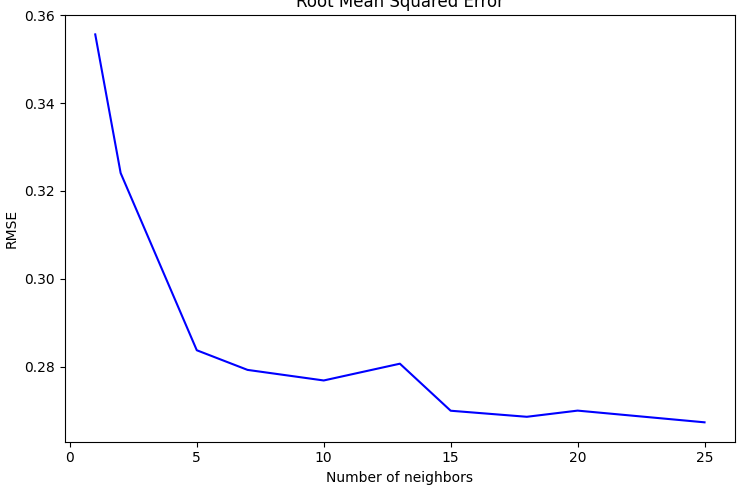
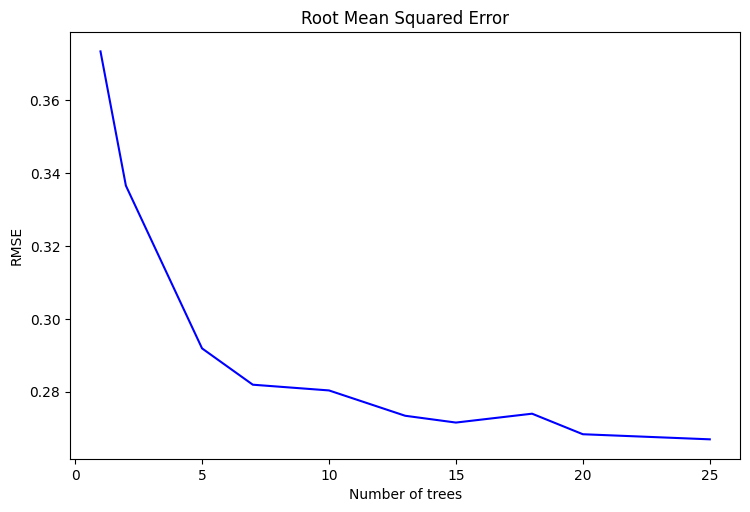
Last update H3

diff --git a/project-3/MLR.py b/project-3/MLR.py
@@ -9,6 +9,11 @@ import numpy as np
 import seaborn as sns  # for scatter plot
 from mlxtend.feature_selection import SequentialFeatureSelector as sfs
 from sklearn.model_selection import train_test_split
+import matplotlib as mlp
+
+mlp.rcParams.update({'figure.max_open_warning': 0})
+plt.rcParams["figure.figsize"] = (15, 10)
+
 
 # FORWARD SUBSET SELECTION path to plots
 path_forward_selection_plots = "./images/forward_subset_selection/"
@@ -107,13 +112,13 @@ def ridge_regression(x, y):
 
     # plot errors
     plt.title("R^2, Root Mean Square Error and Mean Absolute Error")
-    plt.xlabel('Different alphas')
+    plt.xlabel('Different lambdas')
     plt.ylabel('Error')
     plt.plot(alphas, r2, color='red')
     plt.plot(alphas, rmse, color='black')
     plt.plot(alphas, mae, color='green')
     plt.legend(("R^2", "RMSE", "MAE"))
-    plt.savefig(path_ridge_regression_plots + "error_metrics/ridge_errors.png")
+    plt.savefig(path_ridge_regression_plots + "error_metrics/ridge_errors.png", bbox_inches='tight')
     plt.clf()
     # plt.show()
 
@@ -121,11 +126,11 @@ def ridge_regression(x, y):
     ax = plt.gca()
     ax.plot(alphas, coef)
     plt.axis('tight')
-    plt.xlabel('alpha')
+    plt.xlabel('lambda')
     plt.ylabel('coefficients')
-    plt.title("Plot of coefficients for different alphas")
+    plt.title("Plot of coefficients for different lambdas")
     ax.legend(("Sensor O3 coef", "Temp coef", "RelHum coef", "Sensor_NO2", "Sensor_NO", "Sensor_SO2"))
-    plt.savefig(path_ridge_regression_plots + "models/ridge_coefs.png")
+    plt.savefig(path_ridge_regression_plots + "models/ridge_coefs.png", bbox_inches='tight')
     plt.clf()
     # plt.show()
 
@@ -150,14 +155,14 @@ def ridge_regression(x, y):
     pred['date'] = new_PR_data_inner['date']
 
     ax1 = pred.plot(x='date', y='RefSt', color='red')
-    pred.plot(x='date', y='Ridge_Pred', ax=ax1, title='Ridge regression for alpha 1', color='blue')
+    pred.plot(x='date', y='Ridge_Pred', ax=ax1, title='Ridge regression for lambda 1', color='blue')
     label = "Ridge_1.png"
     plt.savefig(path_ridge_regression_plots + "models/" + label)
     plt.clf()
 
     sns_r = sns.lmplot(x='RefSt', y='Ridge_Pred', data=pred, fit_reg=True, height=5, aspect=1.5,
                        line_kws={'color': 'orange'})
-    sns_r.fig.suptitle('Ridge regression for alpha 1')
+    sns_r.fig.suptitle('Ridge regression for lambda 1')
     sns_r.set(ylim=(-2, 3))
     sns_r.set(xlim=(-2, 3))
 
@@ -198,13 +203,13 @@ def lasso_regression(x, y):
     # PLOTS
     # Errors
     plt.title("R^2, Root Mean Square Error and Mean Absolute Error")
-    plt.xlabel('Different alphas')
+    plt.xlabel('Different lambdas')
     plt.ylabel('Error')
     plt.plot(alphas, r2, color='red')
     plt.plot(alphas, rmse, color='black')
     plt.plot(alphas, mae, color='green')
     plt.legend(("R^2", "RMSE", "MAE"))
-    plt.savefig(path_lasso_regression_plots + "error_metrics/lasso_errors.png")
+    plt.savefig(path_lasso_regression_plots + "error_metrics/lasso_errors.png", bbox_inches='tight')
     plt.clf()
     # plt.show()
 
@@ -212,11 +217,11 @@ def lasso_regression(x, y):
     ax = plt.gca()
     ax.plot(alphas, coef)
     plt.axis('tight')
-    plt.xlabel('alpha')
+    plt.xlabel('lambda')
     plt.ylabel('coefficients')
-    plt.title("Plot of coefficients for different alphas")
+    plt.title("Plot of coefficients for different lambdas")
     ax.legend(("Sensor O3 coef", "Temp coef", "RelHum coef", "Sensor_NO2", "Sensor_NO", "Sensor_SO2"))
-    plt.savefig(path_lasso_regression_plots + "models/lasso_coefs.png")
+    plt.savefig(path_lasso_regression_plots + "models/lasso_coefs.png", bbox_inches='tight')
     plt.clf()
     # plt.show()
 
@@ -229,7 +234,7 @@ def lasso_regression(x, y):
     rm.fit(x_train, y_train)
     rmpred = rm.predict(x_test)
 
-    print("LASSO PREDICTION")
+    print("Lasso PREDICTION")
     print("R^2: ", str(metrics.r2_score(y_test, rmpred)))
     print("RMSE: ", str(metrics.mean_squared_error(y_test, rmpred, squared=False)))
     print("MAE : ", str(metrics.mean_absolute_error(y_test, rmpred)))
@@ -240,13 +245,13 @@ def lasso_regression(x, y):
     pred['date'] = new_PR_data_inner['date']
 
     ax1 = pred.plot(x='date', y='RefSt', color='red')
-    pred.plot(x='date', y='Pred', ax=ax1, title='LASSO for alpha ' + str(best_a), color='blue')
+    pred.plot(x='date', y='Pred', ax=ax1, title='Lasso for lambda ' + str(best_a), color='blue')
     plt.savefig(path_lasso_regression_plots + "models/lasso_pred.png")
     plt.clf()
 
     sns_r = sns.lmplot(x='RefSt', y='Pred', data=pred, fit_reg=True, height=5, aspect=1.5,
                        line_kws={'color': 'orange'})
-    sns_r.fig.suptitle('LASSO for alpha ' + str(best_a))
+    sns_r.fig.suptitle('Lasso for lambda ' + str(best_a))
     sns_r.set(ylim=(-2, 3))
     sns_r.set(xlim=(-2, 3))
     # plt.show()

diff --git a/project-3/KR_RBF.py b/project-3/KR_RBF.py
@@ -108,24 +108,24 @@ def gaussian_kernel(x, y):
 
     # plot errors
     plt.title("R-squared")
-    plt.xlabel('Lambda')
+    plt.xlabel('Lambdas')
     plt.ylabel('R^2')
     plt.plot(alphas, r2, color='red')
-    plt.savefig(path_kernel_ridge_regression_plots + "error_metrics/kr_rbf_r2.png")
+    plt.savefig(path_kernel_ridge_regression_plots + "error_metrics/kr_rbf_r2.png", bbox_inches='tight')
     plt.clf()
 
     plt.title("Root Mean Squared Error")
-    plt.xlabel('Lambda')
+    plt.xlabel('Lambdas')
     plt.ylabel('RMSE')
     plt.plot(alphas, rmse, color='blue')
-    plt.savefig(path_kernel_ridge_regression_plots + "error_metrics/kr_rbf_rmse.png")
+    plt.savefig(path_kernel_ridge_regression_plots + "error_metrics/kr_rbf_rmse.png", bbox_inches='tight')
     plt.clf()
 
-    plt.title("Mean Absoulte Error")
-    plt.xlabel('Lambda')
+    plt.title("Mean Absolute Error")
+    plt.xlabel('Lambdas')
     plt.ylabel('MAE')
     plt.plot(alphas, mae, color='black')
-    plt.savefig(path_kernel_ridge_regression_plots + "error_metrics/kr_rbf_mae.png")
+    plt.savefig(path_kernel_ridge_regression_plots + "error_metrics/kr_rbf_mae.png", bbox_inches='tight')
     plt.clf()
 
     # best alpha is the one with higher R^2

diff --git a/project-3/RF.py b/project-3/RF.py
@@ -46,24 +46,24 @@ def random_forest(x, y):
 
     # plot errors
     plt.title("R-squared")
-    plt.xlabel('Number of neighbors')
+    plt.xlabel('Number of trees')
     plt.ylabel('R^2')
     plt.plot(n_trees, r2, color='red')
-    plt.savefig(path_random_forest_plots + "error_metrics/rf_r2.png")
+    plt.savefig(path_random_forest_plots + "error_metrics/rf_r2.png", bbox_inches='tight')
     plt.clf()
 
     plt.title("Root Mean Squared Error")
-    plt.xlabel('Number of neighbors')
+    plt.xlabel('Number of trees')
     plt.ylabel('RMSE')
     plt.plot(n_trees, rmse, color='blue')
-    plt.savefig(path_random_forest_plots + "error_metrics/rf_rmse.png")
+    plt.savefig(path_random_forest_plots + "error_metrics/rf_rmse.png", bbox_inches='tight')
     plt.clf()
 
-    plt.title("Mean Absoulte Error")
-    plt.xlabel('Number of neighbors')
+    plt.title("Mean Absolute Error")
+    plt.xlabel('Number of trees')
     plt.ylabel('MAE')
     plt.plot(n_trees, mae, color='black')
-    plt.savefig(path_random_forest_plots + "error_metrics/rf_mae.png")
+    plt.savefig(path_random_forest_plots + "error_metrics/rf_mae.png", bbox_inches='tight')
     plt.clf()
 
     # best number of trees is the one with higher R^2

diff --git a/project-3/KNN.py b/project-3/KNN.py
@@ -50,21 +50,21 @@ def k_neighbors(x, y):
     plt.xlabel('Number of neighbors')
     plt.ylabel('R^2')
     plt.plot(n_neighbors, r2, color='red')
-    plt.savefig(path_k_nearest_neighbor_plots + "error_metrics/knn_r2.png")
+    plt.savefig(path_k_nearest_neighbor_plots + "error_metrics/knn_r2.png", bbox_inches='tight')
     plt.clf()
 
     plt.title("Root Mean Squared Error")
     plt.xlabel('Number of neighbors')
     plt.ylabel('RMSE')
     plt.plot(n_neighbors, rmse, color='blue')
-    plt.savefig(path_k_nearest_neighbor_plots + "error_metrics/knn_rmse.png")
+    plt.savefig(path_k_nearest_neighbor_plots + "error_metrics/knn_rmse.png", bbox_inches='tight')
     plt.clf()
 
-    plt.title("Mean Absoulte Error")
+    plt.title("Mean Absolute Error")
     plt.xlabel('Number of neighbors')
     plt.ylabel('MAE')
     plt.plot(n_neighbors, mae, color='black')
-    plt.savefig(path_k_nearest_neighbor_plots + "error_metrics/knn_mae.png")
+    plt.savefig(path_k_nearest_neighbor_plots + "error_metrics/knn_mae.png", bbox_inches='tight')
     plt.clf()
     # plt.show()
 
